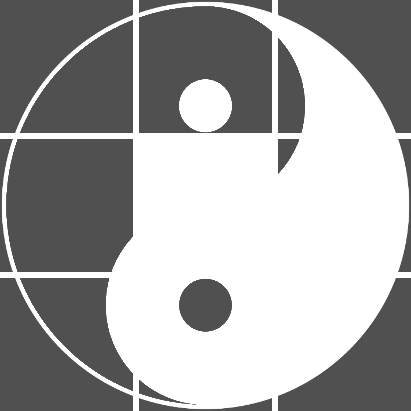
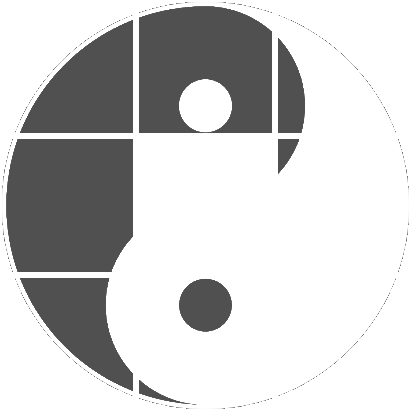
Update

Changed region(s): [[0.0, 0.0, 1.0, 1.0]]

diff --git a/js/LiteDualN-back.js b/js/LiteDualN-back.js
@@ -63,13 +63,25 @@ function Engine(name) {
         type: "range",
         target: "rotation-duration",
         text: "Rotation:",
-        value: 60,
+        value: 30,
         min: 30,
         step: 10,
         MAX: 120,
         char: "s",
         direction: function () {
             return (Math.floor(Math.random() * 2) === 0) ? "-clockwise" : "-anticlockwise";
+        }
+    };
+	this.focusPoint = {
+        type: "range",
+        target: "focus-point",
+        text: "Focus Point:",
+        value: 0,
+        min: 0,
+        step: 1,
+        MAX: 1,
+        change: function (x) {
+            return (x === 1) ? "on" : "off";
         }
     };
     this.audio = {
@@ -221,7 +233,11 @@ Engine.prototype.onSettingChange = function (obj, key) {
             var sel = obj[key].value;
             that.howlerizer(sel, obj[key].selection[sel]);
         });
-    }
+    } else if (key === "focusPoint") {
+		this.onChangeAttacher(el, function () {
+			(obj[key].value === 1) ? $(".tile:eq(4)").append("<div class=\"dot\"></div>") : $(".tile:eq(4)").empty();
+        });
+	}
 };
 Engine.prototype.onChangeAttacher = function (el, foo) {
     $(el).on("change", foo);
@@ -338,6 +354,7 @@ Engine.prototype.markupInit = function () {
 };
 Engine.prototype.eventsInit = function () {
     var that = this;
+	$("#" + this.rotation.target).trigger("change");
     var sel = this.audio.value;
     this.howlerizer(sel, this.audio.selection[sel]);
     this.reset();

diff --git a/css/landscape.css b/css/landscape.css
@@ -2,6 +2,10 @@
 	height: 100vh;
 	width: 100vh;
 }
+.dot {
+    width: 2vh!important;
+    height: 2vh!important;
+}
 .rotational-grid {
 	height: 70vh!important;
 	width: 70vh!important;
@@ -86,6 +90,9 @@
 #navigation {
 	padding: 4vh;
 }
+.nav-item input, .nav-item select {
+	margin-bottom: 32px;
+}
 label[for="nav-trigger"] {
 	top: 4vh;
 	left: 4vh;
@@ -135,6 +142,9 @@ input[type=range].slider::-webkit-slider-thumb {
 	.btn-standard[disabled]:hover {
 		color: #000;
 		background: #111;
+	}
+	.nav-item input, .nav-item select {
+		margin-bottom: 8px;
 	}
 	#nav-trigger:checked + label {
 		left: 35vh;

diff --git a/css/portrait.css b/css/portrait.css
@@ -2,6 +2,10 @@
 	height: 100vw;
 	width: 100vw;
 }
+.dot {
+    width: 2vw!important;
+    height: 2vw!important;
+}
 .rotational-grid {
 	height: 70vw!important;
 	width: 70vw!important;
@@ -83,6 +87,9 @@
 }
 #navigation {
 	padding: 2vh;
+}
+.nav-item input, .nav-item select {
+	margin-bottom: 24px;
 }
 label[for="nav-trigger"] {
 	top: 2vh;

diff --git a/css/common.css b/css/common.css
@@ -23,6 +23,17 @@ input:focus, button:focus{outline:0!important}
 	width: 100%;
 	margin: auto;
 }
+.tile {
+    display: flex;
+    justify-content: center;
+    align-content: center;
+    flex-direction: column;
+    text-align: center;
+}
+.dot {
+	border-radius: 50%;
+    background: #333;
+}
 #N-level {
     text-align: center;
 }

diff --git a/index.html b/index.html
@@ -4,6 +4,7 @@
 		<title>Lite Dual N-back</title>
 		<meta charset="UTF-8">
 		<meta name="viewport" content="width=device-width, user-scalable=no">
+		<link rel="icon" type="image/png" href="favicon.png">
 		<script src="js/jquery.min.js"></script>
 		<script src="js/howler.js"></script>
 		<script src="js/chartist.min.js"></script>
